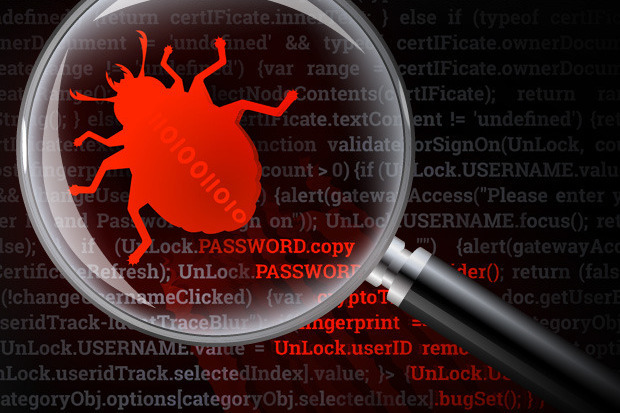
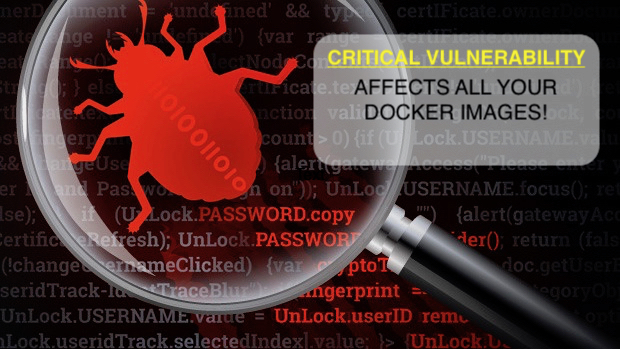
added information to images

diff --git a/src/docs/asciidoc/style/skatt.css b/src/docs/asciidoc/style/skatt.css
@@ -489,3 +489,17 @@ body {
 .reveal table p {
   margin: 5px;
 }
+
+.left-box h2{
+    color: white;
+    background: rgba(25, 25, 25, .4);
+    border-radius: 20px;
+    margin-left: -1em;
+    margin-right: 7em;
+}
+
+
+.underline {
+    text-decoration: underline;
+    color: yellow;
+}
